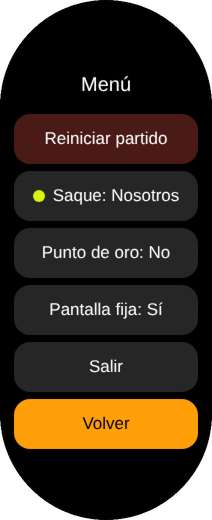
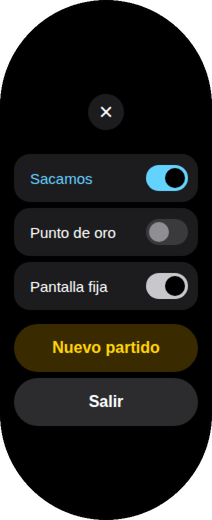
v0.5.0: redesigned menu, new match asks to confirm
- Settings are toggles: Sacamos/Sacan (in the team's colour), Punto de oro,
  Pantalla fija. Nuevo partido (amber) and Salir are grouped as buttons
  below; a close button on top replaces Volver.
- One spacing rhythm: 184x48 rows and buttons, 6px apart, 14px between
  groups, 24px under the close button.
- Nuevo partido asks to confirm before wiping the match.
- Emulator, UI tests, README and menu screenshot updated.

diff --git a/tools/emulator/index.html b/tools/emulator/index.html
@@ -78,10 +78,16 @@
 
   /* menu */
   .menu { position: absolute; inset: 0; display: flex; flex-direction: column; align-items: center; justify-content: center; }
-  .menu h2 { margin: 0 0 10px; height: 26px; line-height: 26px; font-size: 20px; font-weight: 400; color: #fff; }
-  .btn { width: 184px; height: 50px; margin-top: 7px; border-radius: 16px; background: #262626; color: #fff; font-size: 16px; display: flex; align-items: center; justify-content: center; gap: 8px; }
-  .btn.danger { background: #4a1a16; } .btn.primary { background: var(--them); color: #000; }
-  .btn .dot { width: 12px; height: 12px; border-radius: 50%; background: var(--cue); }
+  .menu .close { width: 36px; height: 36px; margin-bottom: 18px; border-radius: 18px; background: #1c1c1e; color: #fff; font-size: 24px; display: flex; align-items: center; justify-content: center; }
+  .menu .row { width: 184px; height: 48px; margin-top: 6px; padding: 0 10px 0 16px; box-sizing: border-box; border-radius: 16px; background: #1c1c1e; color: #fff; font-size: 15px; display: flex; align-items: center; justify-content: space-between; }
+  .tg { width: 42px; height: 26px; padding: 0 3px; box-sizing: border-box; border-radius: 13px; background: #3a3a3c; display: flex; align-items: center; justify-content: flex-start; }
+  .tg i { width: 20px; height: 20px; border-radius: 10px; background: #8e8e93; }
+  .tg.on { justify-content: flex-end; background: #c7c7cc; } .tg.on i, .tg.us i, .tg.them i { background: #000; }
+  .tg.us { justify-content: flex-end; background: var(--us); } .tg.them { background: var(--them); }
+  .btn { width: 184px; height: 48px; margin-top: 6px; border-radius: 24px; background: #2c2c2e; color: #fff; font-size: 16px; font-weight: 700; display: flex; align-items: center; justify-content: center; }
+  .btn.first { margin-top: 14px; }
+  .btn.new { background: #3a2a00; color: #ffd60a; } .btn.danger { background: #ff453a; } .btn.primary { background: var(--them); color: #000; }
+  .menu b { font-size: 17px; color: #fff; } .menu .hint { margin-top: 4px; font-size: 13px; color: #8e8e93; }
   .closed { position: absolute; inset: 0; display: flex; flex-direction: column; align-items: center; justify-content: center; gap: 14px; color: #777; font-size: 14px; }
   .closed .btn { width: 150px; }
 
@@ -180,6 +186,7 @@ const other = (s) => (s === US ? THEM : US)
 let match = newMatch()
 let view = 'start' // start | score | menu | closed
 let keepOn = true
+let confirmReset = false
 let flash = '' // 'u+', 't-'
 let flashTimer = null
 let cueColour = 'grey'
@@ -239,15 +246,22 @@ function renderStart() {
 }
 
 function renderMenu() {
-  const first = match.first === THEM ? 'Ellos' : 'Nosotros'
+  const tg = (on) => `<span class="tg${on ? ' on' : ''}"><i></i></span>`
+  if (confirmReset) {
+    return `<div class="menu">
+    <b>¿Nuevo partido?</b><div class="hint">Se borra el actual</div>
+    <div class="btn danger first" data-act="reset">Sí, empezar</div>
+    <div class="btn" data-act="cancel">Cancelar</div>
+  </div>`
+  }
+  const us = match.first !== THEM
   return `<div class="menu">
-    <h2>Menú</h2>
-    <div class="btn danger" data-act="reset">Reiniciar partido</div>
-    <div class="btn" data-act="first"><span class="dot"></span>Saque: ${first}</div>
-    <div class="btn" data-act="golden">Punto de oro: ${match.golden ? 'Sí' : 'No'}</div>
-    <div class="btn" data-act="screen">Pantalla fija: ${keepOn ? 'Sí' : 'No'}</div>
+    <div class="close" data-act="back">×</div>
+    <div class="row" data-act="first"><span style="color:var(${us ? '--us' : '--them'})">${us ? 'Sacamos' : 'Sacan'}</span><span class="tg ${us ? 'us' : 'them'}"><i></i></span></div>
+    <div class="row" data-act="golden">Punto de oro${tg(match.golden)}</div>
+    <div class="row" data-act="screen">Pantalla fija${tg(keepOn)}</div>
+    <div class="btn new first" data-act="ask-reset">Nuevo partido</div>
     <div class="btn" data-act="exit">Salir</div>
-    <div class="btn primary" data-act="back">Volver</div>
   </div>`
 }
 
@@ -349,6 +363,7 @@ screenEl.addEventListener('pointerdown', (e) => {
       if (Math.abs(touch.lastX - touch.x) > TAP_SLOP || Math.abs(touch.lastY - touch.y) > TAP_SLOP) return
       touch.long = true
       buzz(25)
+      confirmReset = false
       view = 'menu'
       render()
     }, LONG_MS)
@@ -401,7 +416,9 @@ function start(first) {
 }
 
 function menuAction(a) {
-  if (a === 'reset') { match = newMatch(match.golden); view = 'start' }
+  if (a === 'ask-reset') confirmReset = true
+  else if (a === 'cancel') confirmReset = false
+  else if (a === 'reset') { match = newMatch(match.golden); confirmReset = false; view = 'start' }
   else if (a === 'first') match = { ...match, first: other(match.first || US) }
   else if (a === 'golden') match = { ...match, golden: !match.golden }
   else if (a === 'screen') keepOn = !keepOn
@@ -412,7 +429,7 @@ function menuAction(a) {
 }
 
 document.addEventListener('keydown', (e) => {
-  if (e.key === 'm' || e.key === 'M') { if (view === 'score') view = 'menu'; else if (view === 'menu') view = 'score'; render(); return }
+  if (e.key === 'm' || e.key === 'M') { if (view === 'score') { confirmReset = false; view = 'menu' } else if (view === 'menu') view = 'score'; render(); return }
   if (view !== 'score') return
   const side = e.key === 'ArrowUp' ? THEM : e.key === 'ArrowDown' ? US : null
   if (!side) return

diff --git a/README.md b/README.md
@@ -66,13 +66,14 @@ last one played, it's fully undone, even if it closed a game or a set.
 
 **Menu:**
 
-- *Reiniciar partido*: start a new match. It asks who serves first again.
-- *Saque: Nosotros / Ellos*: change which team served first, if it was
-  set wrong. The serve indicator updates for the whole match.
-- *Punto de oro: Sí / No*: turn the golden point on or off.
-- *Pantalla fija: Sí / No*: keep the screen on while the app is open.
+- *Sacamos / Sacan*: a toggle for which team served first, if it was set
+  wrong. The serve indicator updates for the whole match.
+- *Punto de oro*: turn the golden point on or off.
+- *Pantalla fija*: keep the screen on while the app is open.
+- *Nuevo partido*: start a new match. It asks to confirm first, then who
+  serves.
 - *Salir*: exit the app.
-- *Volver*: go back to the score.
+- **×** on top goes back to the score.
 
 > A right swipe, the band's usual "back" gesture, **does nothing** here, so a
 > stray swipe mid-match can't close the scoreboard. Use **Salir** in the menu
@@ -101,6 +102,11 @@ Get the latest `.rpk` from
 [changelog](CHANGELOG.md) for what changed in each version. Release builds
 are debug-signed and compiled to JSC bytecode, which is what the band needs to
 sideload them.
+
+Releases are published automatically: when a merge to `main` carries a
+`versionName` (in `src/manifest.json`) that has no release yet, the
+[Release workflow](.github/workflows/release.yml) builds the `.rpk` and
+publishes it, with that version's section of the changelog as the notes.
 
 ## Install with MiBand Hack
 

diff --git a/CHANGELOG.md b/CHANGELOG.md
@@ -8,6 +8,23 @@ Versions marked *(released)* have a `.rpk` on
 [GitHub Releases](https://github.com/IlanVivanco/padel-band/releases). The
 others were test builds on the band.
 
+## [0.5.0] — 2026-11-08
+
+### Added
+- Releases are published automatically: a merge to `main` with a new
+  `versionName` builds the `.rpk` and publishes it on GitHub Releases, with
+  this changelog's section as the notes.
+
+### Changed
+- **Redesigned menu.** The three settings (who served first, golden point,
+  keep screen on) are toggles, and *Nuevo partido* and *Salir* are grouped
+  below them as buttons. A **×** on top replaces *Volver*. One spacing rhythm
+  throughout, and colour only where it means something: *Sacamos* / *Sacan*
+  in the team's blue or orange, light grey for a toggle that's on, amber for
+  *Nuevo partido*.
+- *Reiniciar partido* is now *Nuevo partido* and asks to confirm, so a stray
+  tap can't wipe a match.
+
 ## [0.4.0] — 2026-11-08
 
 ### Added
